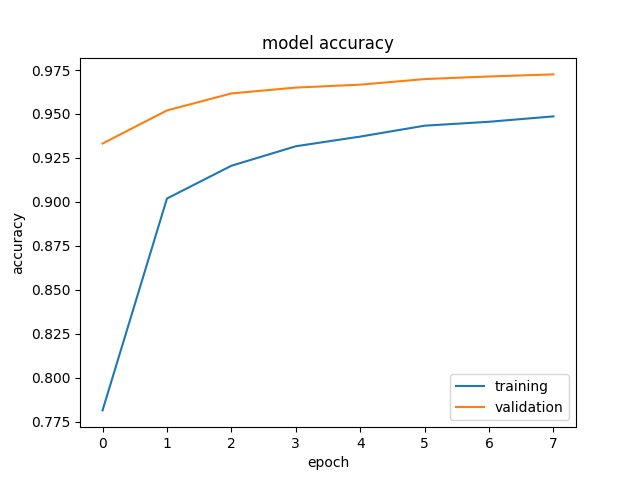
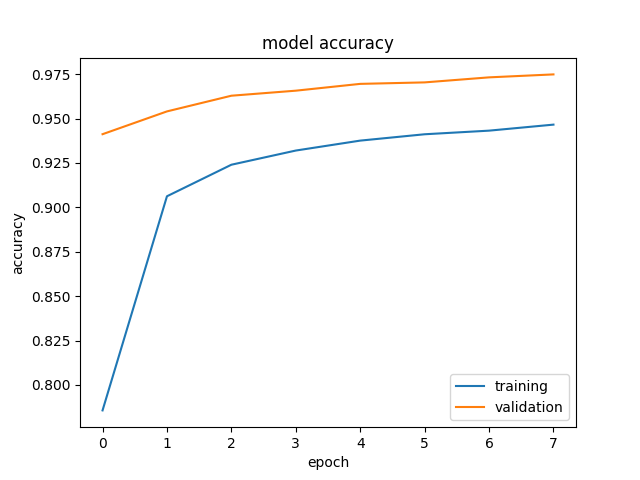
Metrick changerd from mae to mse + plots updated

diff --git a/regular-neural-network.py b/regular-neural-network.py
@@ -2,6 +2,7 @@ import keras
 from keras.datasets import mnist
 from keras.models import Sequential, model_from_json
 from keras.layers import Dense, Dropout, Flatten, Conv2D, MaxPooling2D
+from keras.losses import mean_squared_error as mse
 from  matplotlib import pyplot as plt
 import numpy as np
 import timeit
@@ -66,15 +67,17 @@ class RegularNeuralNetwork:
 
     def modelSummary(self):
         self.model.summary()
+
+    def mse_pred(self, y_true, y_pred):
+        return mse(y_true, y_pred)
     
     def buildModel(self):
         self.model.compile(
             optimizer="adam", 
             loss='categorical_crossentropy', 
-            metrics=['accuracy', 'mae'])
+            metrics=['accuracy', mse])
 
     def trainModel(self, verbose = 0):
-        # self.fp = 'weights.{epoch:02d}-{val_accu:.2f}.hdf5'
         self.fp = 'saved-models/rnn_weights_best.hdf5'
 
         checkPointCallback = keras.callbacks.callbacks.ModelCheckpoint(
@@ -113,7 +116,7 @@ class RegularNeuralNetwork:
         print('id : ', self.id)
         print('Test loss:', self.metrics[0])
         print('Test accuracy:', self.metrics[1])
-        print('Test mae:', self.metrics[2])
+        print('Test mse:', self.metrics[2])
         print('Training duration : ', self.timeOfTraining, 's')
 
 
@@ -152,9 +155,9 @@ class RegularNeuralNetwork:
 
     def modelMSEPlot(self):
         plt.plot(self.history.history['accuracy'])
-        plt.plot(self.history.history['mae'])
-        plt.title('model mae')
-        plt.ylabel('mae')
+        plt.plot(self.history.history['mean_squared_error'])
+        plt.title('model mse')
+        plt.ylabel('mse')
         plt.xlabel('epoch')
         plt.legend(['training', 'validation'], loc='best')
         plt.savefig(plotDir + 'rnn-mse-plt.png')
@@ -183,7 +186,7 @@ def pickBest(population, metric):
         population.sort(reverse = False, key=lambda e: e.metrics[0])
     elif(metric == 'accuracy'):
         population.sort(reverse = True, key=lambda e: e.metrics[1])
-    elif(metric == 'mae'):
+    elif(metric == 'mse'):
         population.sort(reverse = False, key=lambda e: e.metrics[2])
 
     return population[0]

diff --git a/convolutional-neural-network.py b/convolutional-neural-network.py
@@ -2,6 +2,7 @@ import keras
 from keras.datasets import mnist
 from keras.models import Sequential, model_from_json
 from keras.layers import Dense, Dropout, Flatten, Conv2D, MaxPooling2D
+from keras.losses import mean_squared_error as mse
 from matplotlib import pyplot as plt
 import numpy as np
 import timeit
@@ -72,10 +73,9 @@ class ConvolutionalNeuralNetwork:
         self.model.compile(
             optimizer="adam", 
             loss='categorical_crossentropy', 
-            metrics=['accuracy', 'mae'])
+            metrics=['accuracy', mse])
 
     def trainModel(self, verbose = 0):
-        # self.fp = 'weights.{epoch:02d}-{val_accu:.2f}.hdf5'
         self.fp = 'saved-models/cnn_weights_best.hdf5'
 
         checkPointCallback = keras.callbacks.callbacks.ModelCheckpoint(
@@ -114,7 +114,7 @@ class ConvolutionalNeuralNetwork:
         print('id : ', self.id)
         print('Test loss:', self.metrics[0])
         print('Test accuracy:', self.metrics[1], '%')
-        print('Test mae:', self.metrics[2])
+        print('Test mse:', self.metrics[2])
         print('Training duration : ', self.timeOfTraining, 's')
 
 
@@ -154,9 +154,9 @@ class ConvolutionalNeuralNetwork:
 
     def modelMSEPlot(self):
         plt.plot(self.history.history['accuracy'])
-        plt.plot(self.history.history['mae'])
-        plt.title('model mae')
-        plt.ylabel('mae')
+        plt.plot(self.history.history['mean_squared_error'])
+        plt.title('model mse')
+        plt.ylabel('mse')
         plt.xlabel('epoch')
         plt.legend(['training', 'validation'], loc='best')
         plt.savefig(plotDir + 'cnn-mse-plt.png')
@@ -191,7 +191,7 @@ def pickBest(population, metric):
         population.sort(reverse = False, key=lambda e: e.metrics[0])
     elif(metric == 'accuracy'):
         population.sort(reverse = True, key=lambda e: e.metrics[1])
-    elif(metric == 'mae'):
+    elif(metric == 'mse'):
         population.sort(reverse = False, key=lambda e: e.metrics[2])
 
     return population[0]
